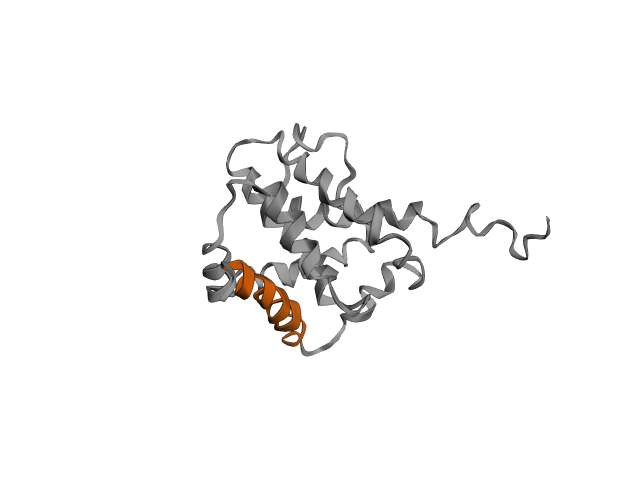
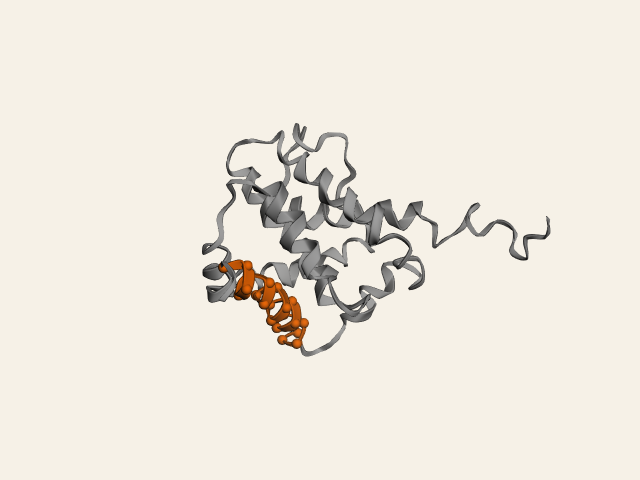
fix(3d): mark the highlight by shape as well as colour; posters on the light stage
Orange and grey differ by hue, not lightness (1.14:1 dark, 1.22:1 light), so
with the labels off the highlight relied on colour alone (WCAG 1.4.1). Orange
spheres now sit on the highlighted ligand atoms or on the CA backbone of the
highlighted protein part (larger on CA-only traces), and the legend says so.
The posters are redrawn the same way on the opaque light stage colour: on the
dark theme's stage the transparent posters had the low contrast the live
model had before it gained its own light backdrop.

diff --git a/src/scripts/structure-3d.ts b/src/scripts/structure-3d.ts
@@ -83,6 +83,9 @@ export async function mount(el: HTMLElement, base: string, reduce: boolean): Pro
         const sel = spec({ ...scope, ...(h.chains ? { chain: h.chains } : {}), ...(h.resi ? { resi: h.resi } : {}), ...(h.resn ? { resn: h.resn } : {}) });
         // Ligands and small groups as sticks, protein parts as orange cartoon.
         viewer.setStyle(sel, h.resn ? { stick: { color: ORANGE, radius: 0.3 } } : cartoon(ORANGE));
+        // Spheres on its atoms (ligands) or its backbone (protein, CA-only traces too) mark the highlight by shape,
+        // not by colour alone (WCAG 1.4.1), also with the labels off.
+        viewer.addStyle(h.resn ? sel : spec({ ...sel, atom: 'CA' }), { sphere: { color: ORANGE, radius: h.resn ? 0.45 : step.coarse ? 1.6 : 0.9 } });
         count = viewer.selectedAtoms(sel).length;
         label = { text: h.label, sel };
       }

diff --git a/src/i18n/pathway.ts b/src/i18n/pathway.ts
@@ -43,7 +43,7 @@ export const tPw = defineStrings({
   labels: { it: 'Etichette', en: 'Labels' },
   poster: { it: 'Immagine statica della struttura {pdb}', en: 'Still image of structure {pdb}' },
   legendBase: { it: 'grigio: resto della struttura', en: 'grey: rest of the structure' },
-  legendHighlight: { it: 'arancione: {label}', en: 'orange: {label}' },
+  legendHighlight: { it: 'arancione con sfere: {label}', en: 'orange with spheres: {label}' },
   structureLine: { it: 'Struttura 3D: PDB {pdb}', en: '3D structure: PDB {pdb}' },
   method: { it: 'Metodo', en: 'Method' },
   resolution: { it: 'risoluzione', en: 'resolution' },
